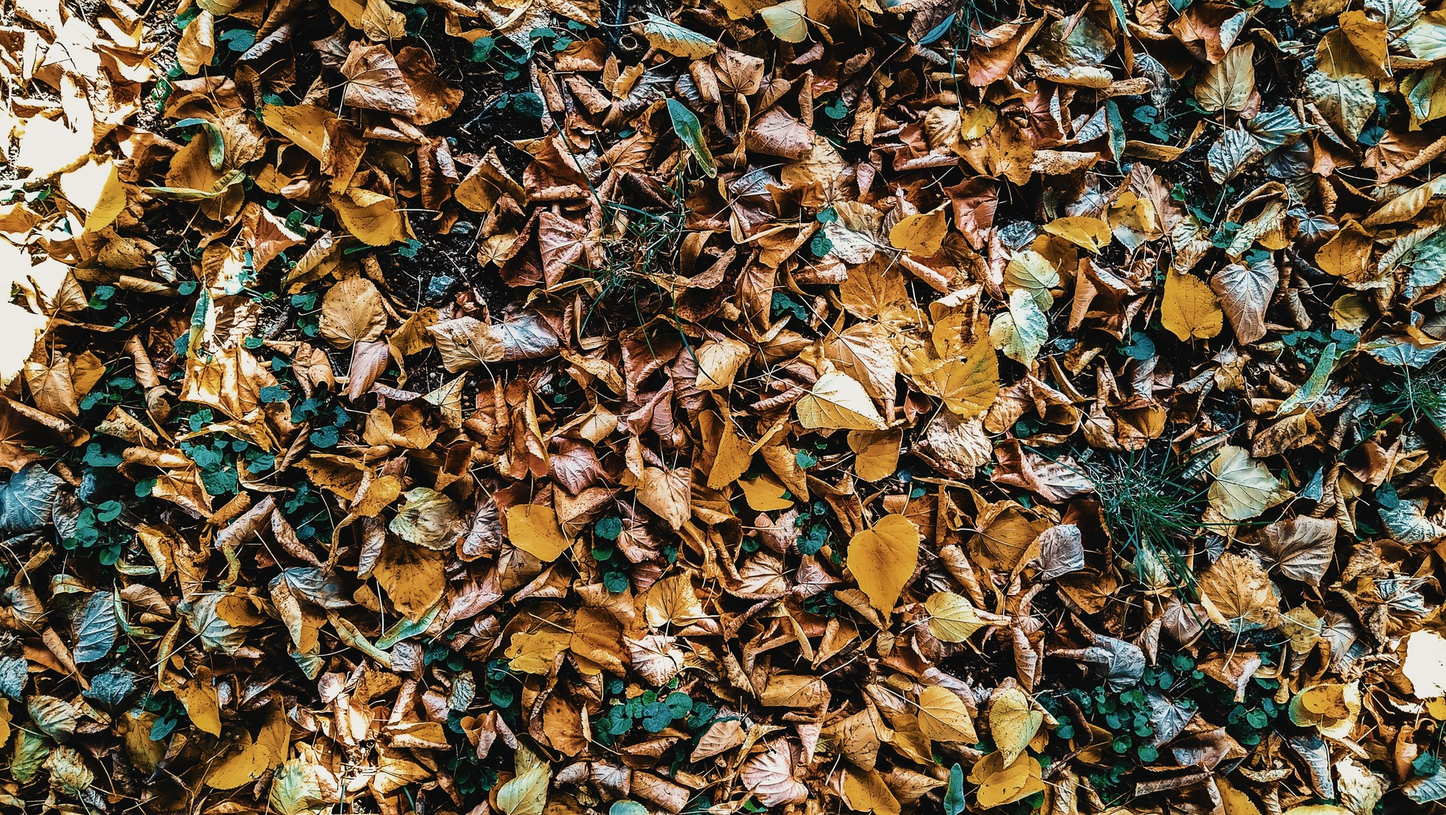
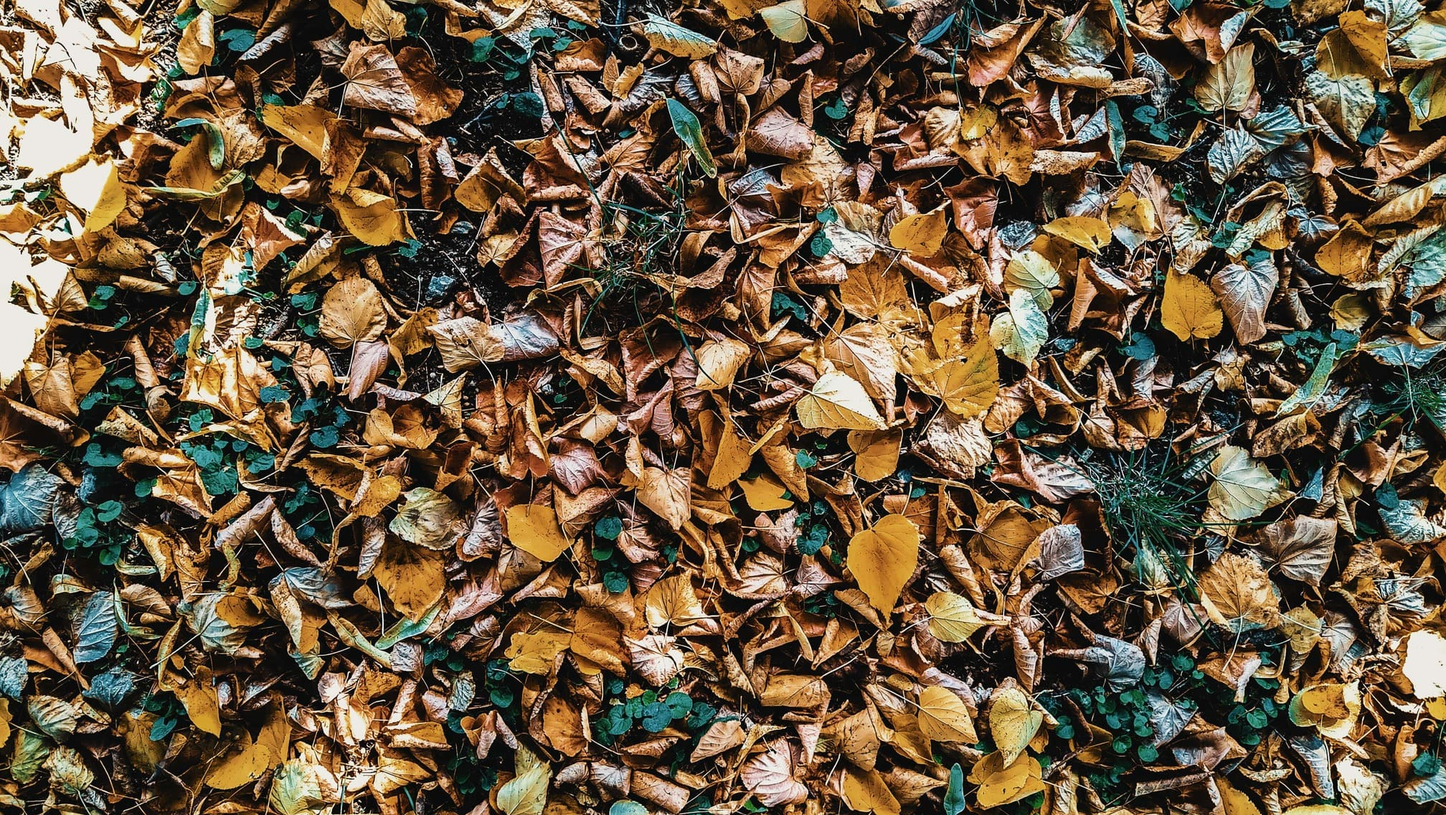
Replaced img with compressed img, removed for graphic projects and changed color of the overlay

Changed region(s): [[0.4062, 0.3081, 0.4375, 0.3389], [0.2188, 0.9859, 0.25, 1.0], [0.0938, 0.0308, 0.125, 0.0616]]

diff --git a/src/app/globals.css b/src/app/globals.css
@@ -505,6 +505,7 @@ a {
 /* INIZIO STILE GALLERIA */
 #gallery {
   margin-top: 70px;
+  margin-bottom: 200px;
   position: relative;
 }
 
@@ -538,7 +539,10 @@ a {
   left: 0;
   width: 100%;
   height: 100%;
-  background-color: rgba(0, 0, 0, 1);
+  transition: background-color 0.5s ease, opacity 0.3s ease-in-out;
+  background: rgba(0, 0, 0, 0.8);
+  backdrop-filter: blur(10px);
+  -webkit-backdrop-filter: blur(10px);
   display: flex;
   justify-content: center;
   align-items: center;
@@ -547,7 +551,6 @@ a {
 
 .overlay-content {
   position: relative;
-  padding: 20px;
   max-width: 80%;
   max-height: 80%;
   text-align: center;
@@ -556,7 +559,7 @@ a {
 }
 
 .overlay-content img {
-  max-width: 850px;
+  max-width: 750px;
   max-height: 100%;
 }
 
@@ -573,10 +576,10 @@ a {
 }
 
 .close-button {
-  font-size: 3.5rem;
+  font-size: 2.5rem;
   position: absolute;
-  top: 30px;
-  right: 50px;
+  top: 13px;
+  right: 57px;
   color: white;
   background-color: transparent;
   border: none;

diff --git a/src/app/graphic-projects/page.js b/src/app/graphic-projects/page.js
@@ -76,7 +76,7 @@ export default function Gallery() {
           </button>
           <div className="overlay-content" onClick={(e) => e.stopPropagation()}>
             <img src={selectedImage.url} alt="Selected" />
-            <div className="overlay-content-text">
+            {/* <div className="overlay-content-text">
               <h2 className={`${NeutralFace.className}`}>
                 {selectedImage.description}
               </h2>
@@ -84,7 +84,7 @@ export default function Gallery() {
                 <span>{selectedImage.device}</span>
                 <span>{selectedImage.location}</span>
               </div>
-            </div>
+            </div>*/}
           </div>
         </div>
       )}

diff --git a/src/app/components/Header.js b/src/app/components/Header.js
@@ -9,13 +9,10 @@ export default function Header() {
           <div id="time time-desktop">
             <LocalTime />
           </div>
-          <a href="#top">
+          <a href="/">
             <img src="/Logo VB WH.svg" alt="Logo" width={35} height={35} />
           </a>
           <div id="menu">
-            {/* <a href="#about">ABOUT</a>
-            <a href="#services">SKILLS</a>
-            <a href="#projects">PROJECTS</a> */}
             <a href="#footer">CONTACT</a>
           </div>
         </div>
